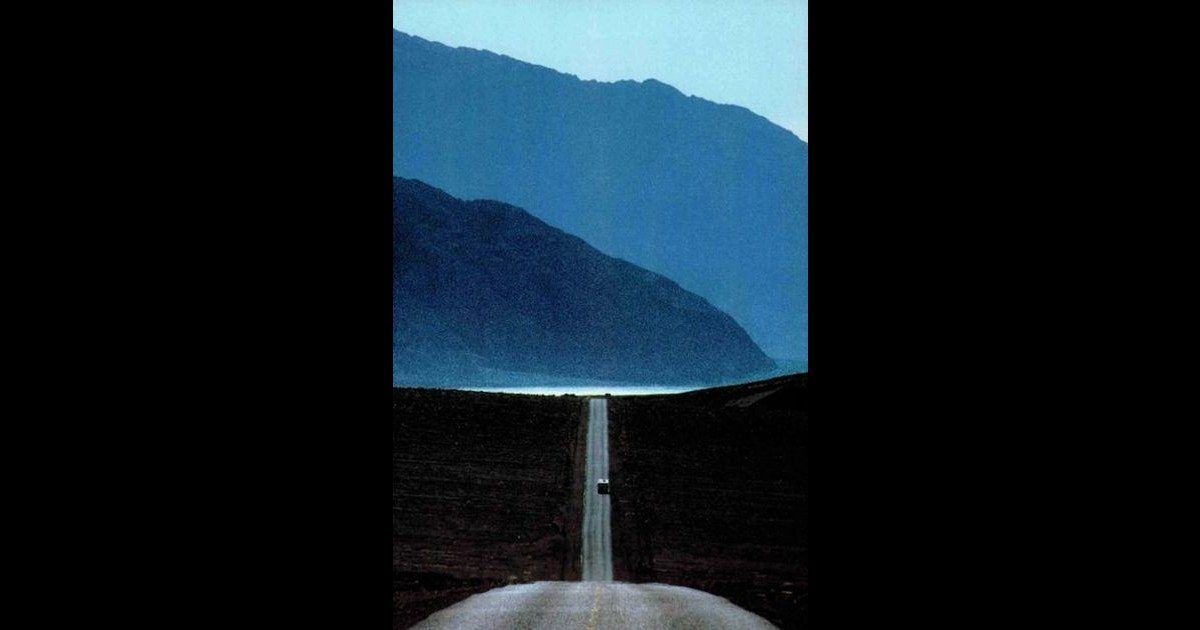
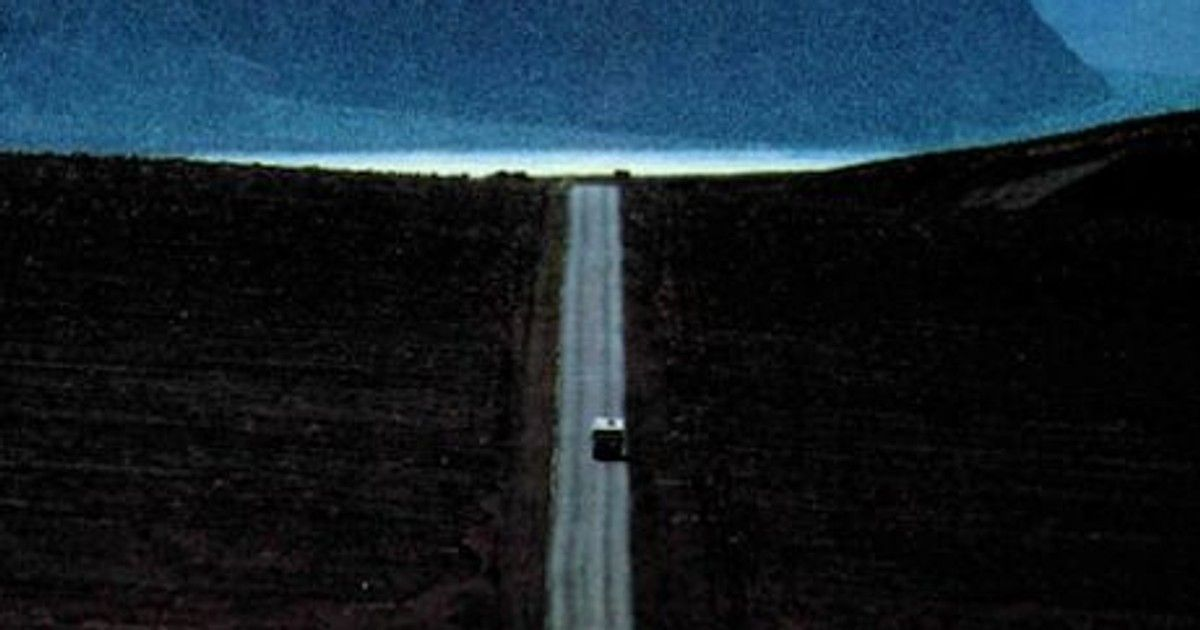
IntrinsicOS: drop status line and hero glow; landscape OG image
- product page: a `described` product renders no status label (the page is the description)
- ProductHero: the blurred radial plate behind the solo hero is gone — image on black
- opengraph/twitter images re-cropped to a 1200×630 band of the highway hero

Claude-Session: https://claude.ai/code/session_01PwznaY5HxQjyzCT7ABn4PE

diff --git a/app/products/[slug]/page.tsx b/app/products/[slug]/page.tsx
@@ -22,6 +22,8 @@ export async function generateMetadata({ params }: { params: Promise<{ slug: str
  * stated: `statusNote` when the front matter has one (the "built for one person, source is
  * private" kind of caveat, which already says the status in prose), the plain `STATUS_LABEL`
  * otherwise — so a product like GlyphDeck with no note still says "In development" somewhere.
+ * The one exception is `described`: that page IS the description, so a label saying so is
+ * noise (Asher, 2026-09-04: drop "the code is private for now; this page is the description").
  */
 export default async function ProductPage({ params }: { params: Promise<{ slug: string }> }) {
   const p = await productBySlug((await params).slug);
@@ -30,6 +32,7 @@ export default async function ProductPage({ params }: { params: Promise<{ slug: 
   // The palette is data (front matter), not a slug check. `.dossier-dark` is inert now that
   // the site's one colour mode is dark — kept so no content file breaks. See globals.css.
   const dark = p.theme === "dark";
+  const statusLine = p.statusNote ?? (p.status === "described" ? null : STATUS_LABEL[p.status]);
   return (
     <div data-theme={dark ? "dark" : undefined} className={dark ? "dossier-dark" : undefined}>
       <article>
@@ -39,7 +42,7 @@ export default async function ProductPage({ params }: { params: Promise<{ slug: 
 
         <div className="mx-auto max-w-6xl px-6">
           <div className="mx-auto max-w-[68ch] border-t border-rule py-14">
-            <p className="label mb-8">{p.statusNote ?? STATUS_LABEL[p.status]}</p>
+            {statusLine && <p className="label mb-8">{statusLine}</p>}
             <div className="prose prose-post"><Mdx source={p.body} /></div>
           </div>
         </div>

diff --git a/components/products/ProductHero.tsx b/components/products/ProductHero.tsx
@@ -43,14 +43,6 @@ export function ProductHero({ product, images }: { product: Product; images: Pro
           // Full-bleed on a phone (the section clips, so the negative margin cannot widen
           // the page), inset again from `sm` up.
           <div className="relative -mx-6 mt-10 sm:mx-0 sm:mt-14">
-            {/* Vignette: the image sinks into the ground rather than sitting on a card. */}
-            <div
-              aria-hidden
-              className="pointer-events-none absolute -inset-x-10 -inset-y-6 opacity-60 blur-2xl"
-              style={{
-                background: "radial-gradient(50% 50% at 50% 50%, var(--color-paper-3) 0%, transparent 75%)",
-              }}
-            />
             {images.hero ? (
               // eslint-disable-next-line @next/next/no-img-element
               <img
